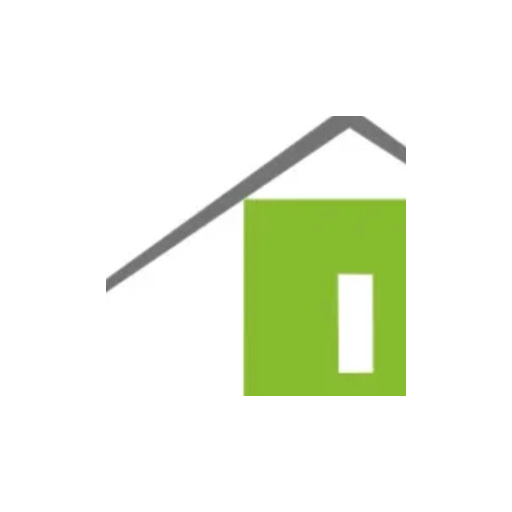
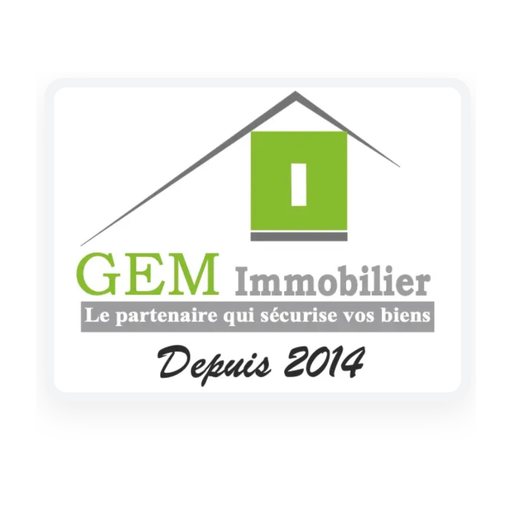
nouv maj

Changed region(s): [[0.125, 0.1562, 0.875, 0.7812], [0.2188, 0.375, 0.3125, 0.4375]]

diff --git a/src/app/layout.tsx b/src/app/layout.tsx
@@ -37,14 +37,6 @@ export const metadata: Metadata = {
     index: true,
     follow: true,
   },
-  icons: {
-    icon: [
-      { url: "/brand/favicon-gem.png?v=2", type: "image/png", sizes: "512x512" },
-      { url: "/brand/favicon.ico?v=2", sizes: "any" },
-    ],
-    apple: "/brand/favicon-gem.png?v=2",
-    shortcut: "/brand/favicon.ico?v=2",
-  },
 };
 
 export default function RootLayout({